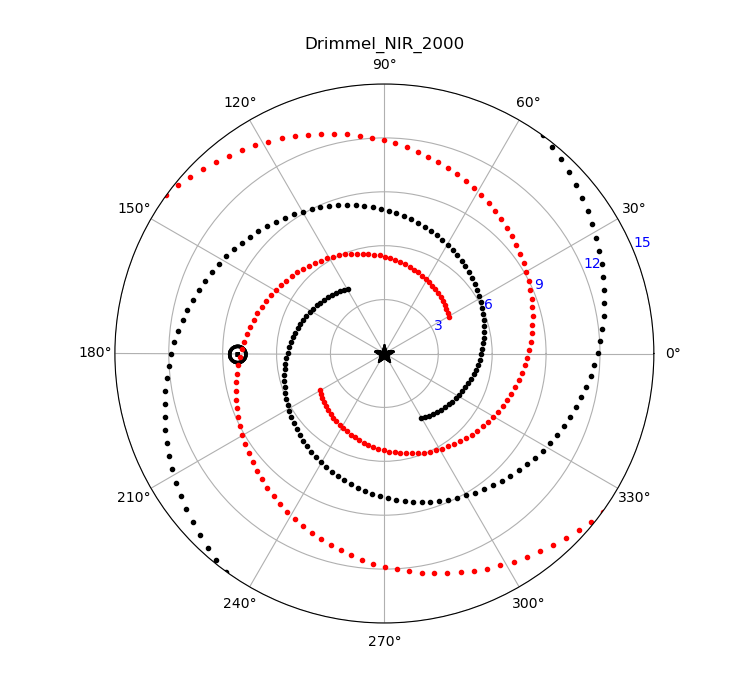
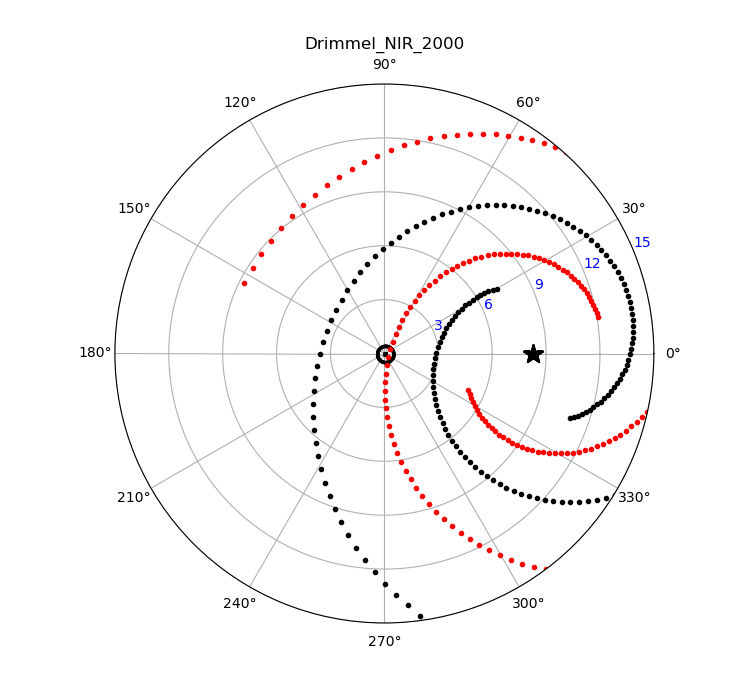
polarproj option simplified

diff --git a/test.py b/test.py
@@ -1,22 +1,15 @@
 
 
+from SpiralMap import *
+import SpiralMap as sp
+
 import imp,SpiralMap, dtools
 imp.reload(SpiralMap)
 imp.reload(dtools)
-# import SpiralMap as sp
-# import matplotlib.pyplot as plt
-# import numpy as np
-# import os
-# import putil
-# import imp,SpiralMap
-# imp.reload(SpiralMap)
-
-# import matplotlib.pyplot as plt
-# import numpy as np
-from SpiralMap import *
-import SpiralMap as sp
-# import os
 import putil
+
+
+
 
 figdir_primer = 'figdir_primer'
 os.system('rm -rf '+figdir_primer); os.system('mkdir '+figdir_primer)
@@ -336,8 +329,8 @@ if single_model:
 	print('plotting figures for primer')
 	xsun=-8.277
 	spirals = sp.main_(xsun=xsun)
-	use_model = 'Drimmel_ceph_2024'
-	use_arm = 'Orion'
+	use_model = 'Drimmel_NIR_2000'
+	use_arm = '2_arm'
 	spirals.getinfo(model=use_model)
 				
 	import matplotlib.gridspec as gridspec
@@ -348,17 +341,17 @@ if single_model:
 	fig.add_subplot(1,3,1)
 	plotattrs = {'plot':True,'coordsys':'HC','markersize':15,'markSunGC':True,'polargrid':True}
 	spirals.readout(plotattrs,model=use_model,arm=use_arm)
-	spirals.readout(plotattrs,model='Poggio_2021')
+	# spirals.readout(plotattrs,model='Poggio_2021')
 	
 	fig.add_subplot(1,3,2)
 	plotattrs = {'plot':True,'coordsys':'GC','markersize':15,'markSunGC':True,'polargrid':False}
 	spirals.readout(plotattrs,model=use_model,arm=use_arm)
-	spirals.readout(plotattrs,model='Poggio_2021')
+	# spirals.readout(plotattrs,model='Poggio_2021')
 
 	fig.add_subplot(1,3,3)
 	plotattrs = {'plot':True,'coordsys':'GC','markersize':15,'markSunGC':True,'polargrid':True}
 	spirals.readout(plotattrs,model=use_model,arm=use_arm)
-	spirals.readout(plotattrs,model='Poggio_2021')
+	# spirals.readout(plotattrs,model='Poggio_2021')
 	
 	fig.suptitle(use_model+'('+use_arm+')')
 	fig.tight_layout()
@@ -409,10 +402,8 @@ if checkpolar:
 				
 	plt.close('all')
 	fig, ax = plt.subplots(figsize=(7.5,7.),subplot_kw=dict(projection="polar"))
-	plotattrs = {'plot':True,'markersize':15,'polarproj':True}	
+	plotattrs = {'plot':True,'coordsys': 'HC','markersize':15,'polarproj':True}	
 	spirals.readout(plotattrs,model=use_model,arm='all')	
-	# spirals.readout(plotattrs,model='Taylor_Cordes_1992',arm='all')	
-	# spirals.readout(plotattrs,model='Levine_2006',arm='all')	
 
 	ax.set_rticks([3., 6.,9.,12,15.])
 	ax.set_thetagrids(list(np.arange(0.,360.,30)))
@@ -423,15 +414,13 @@ if checkpolar:
 	    label.set_size(fontsize=10)
 
 	plt.title(use_model)
-	# ax.set_xlim([np.radians(100),np.radians(260)])
 	ax.set_ylim([0.,15])
 
 	plt.savefig(figdir_primer+'/polar_grid_overplotted1_gc.png')
-	
-	
+		
 	plt.close('all')
 	fig, ax = plt.subplots(figsize=(7.5,7.),subplot_kw=dict(projection="polar"))
-	plotattrs = {'plot':True,'markersize':15,'polarproj_hc':True}	
+	plotattrs = {'plot':True,'coordsys': 'GC','markersize':15,'polarproj':True}	
 	spirals.readout(plotattrs,model=use_model,arm='all')	
 
 	ax.set_rticks([3., 6.,9.,12,15.])
@@ -448,11 +437,10 @@ if checkpolar:
 
 	plt.savefig(figdir_primer+'/polar_grid_overplotted1.png')
 
-	use_model = 'Drimmel_ceph_2024'
 	plt.close('all') 	
 	fig, ax = plt.subplots(figsize=(7.5,7.),subplot_kw=dict(projection="polar"))
-	plotattrs = {'plot':True,'markersize':15,'polarproj_hc':True}	
-	spirals.readout(plotattrs,model=use_model,arm='Sag-Car')	
+	plotattrs = {'plot':True,'coordsys': 'GC','markersize':15,'polarproj':True}	
+	spirals.readout(plotattrs,model=use_model,arm='2_arm')	
 
 	ax.set_rticks([3., 6.,9.,12,15.])
 	ax.set_thetagrids(list(np.arange(0.,360.,30)))
@@ -463,10 +451,27 @@ if checkpolar:
 	    label.set_size(fontsize=10)
 
 	plt.title(use_model)
-	# ax.set_xlim([np.radians(100),np.radians(260)])
 	ax.set_ylim([0.,15])
 
-	plt.savefig(figdir_primer+'/polar_grid_overplotted2.png')
+	plt.savefig(figdir_primer+'/polar_grid_overplotted2_gc.png')
+	
+	plt.close('all') 	
+	fig, ax = plt.subplots(figsize=(7.5,7.),subplot_kw=dict(projection="polar"))
+	plotattrs = {'plot':True,'coordsys': 'HC','markersize':15,'polarproj':True}	
+	spirals.readout(plotattrs,model=use_model,arm='2_arm')	
+
+	ax.set_rticks([3., 6.,9.,12,15.])
+	ax.set_thetagrids(list(np.arange(0.,360.,30)))
+	
+	rlabels = ax.get_ymajorticklabels()
+	for label in rlabels:
+	    label.set_color('blue')
+	    label.set_size(fontsize=10)
+
+	plt.title(use_model)
+	ax.set_ylim([0.,15])
+
+	plt.savefig(figdir_primer+'/polar_grid_overplotted2_hc.png')
 
 
 

diff --git a/SpiralMap.py b/SpiralMap.py
@@ -95,12 +95,11 @@ class spiral_poggio(object):
 			self.ymin,self.ymax =plt.gca().get_ylim()[0].copy(),plt.gca().get_ylim()[1].copy()		
 			# add_polargrid(plotattrs,xmin=xmin,xmax=xmax,ymin=ymin,ymax=ymax)					
 		
-		if plotattrs['polarproj']:
+		if plotattrs['polarproj'] and plotattrs['coordsys'].lower() == 'GC':
 			phi4_overdens = np.degrees(np.arctan2(yvalues_overdens,xvalues_overdens+xcorr))%360.							
 			cset1 = plt.contour(np.radians(phi4_overdens),Rgcvalues_dens,over_dens_grid,levels=levels_overdens,colors='black',linewidths=plotattrs['linewidth'])
 			self.xmin,self.xmax =plt.gca().get_xlim()[0].copy(),plt.gca().get_xlim()[1].copy()				
 			self.ymin,self.ymax =plt.gca().get_ylim()[0].copy(),plt.gca().get_ylim()[1].copy()	
-
 							
 class TaylorCordesSpiral(object):	
 	""" Taylor & Cordes (1993) Galactic spiral arm model,	  
@@ -1063,8 +1062,7 @@ class main_(object):
 								'xmax':'',
 								'ymin':'',
 								'ymax':'',
-								'polarproj':False,    
-								'polarproj_hc':False,    
+								'polarproj':False,       
 								'polargrid':False,    
 								'dataloc':dataloc}    
 	def add2plot(self,plotattrs):
@@ -1082,8 +1080,7 @@ class main_(object):
 	def xyplot(self,spimod,plotattrs_):		
 		
 		
-		if plotattrs_['plot'] and plotattrs_['polarproj']==False and plotattrs_['polarproj_hc']==False:	
-				
+		if plotattrs_['plot'] and plotattrs_['polarproj']==False :				
 			
 			plt.plot(spimod.dout['x'+plotattrs_['coordsys'].lower()],
 			         spimod.dout['y'+plotattrs_['coordsys'].lower()],
@@ -1150,8 +1147,8 @@ class main_(object):
 			self.dout = spimod.dout.copy() 													
 			if plotattrs1['armcolour'] == '':
 				plotattrs1['armcolour'] = spimod.armcolour[arm]		
-				self.xyplot(spimod,plotattrs1)
-				_polarproj(spimod,plotattrs1)														
+			self.xyplot(spimod,plotattrs1)
+			_polarproj(spimod,plotattrs1)														
 		if (('poggio' not in model.lower())&(arm=='all'))  :	
 													
 			for arm_temp in spimod.arms:			

diff --git a/dtools.py b/dtools.py
@@ -155,7 +155,7 @@ def add_polargrid(plotattrs,rlevels=12,xmin=-10,xmax=10,ymin=-10,ymax=10,modrec=
 
 def _polarproj(spimod,plotattrs):		
 
-	if plotattrs['plot'] and plotattrs['polarproj'] and plotattrs['polarproj_hc']==False:												
+	if plotattrs['plot'] and plotattrs['polarproj'] and plotattrs['coordsys'].lower()=='gc':												
 		plt.plot(0.,0.,marker='*',markersize=plotattrs['markersize'],color='black')		
 		plt.plot(np.radians(180.),abs(spimod.xsun),marker=r'$\odot$',markersize=plotattrs['markersize'],color='black')				
 		plt.plot(np.radians(spimod.dout['phi4']),spimod.dout['rgc'],'.',color=plotattrs['armcolour'])	
@@ -163,7 +163,7 @@ def _polarproj(spimod,plotattrs):
 			plt.plot(np.radians(spimod.dout['phi4_ex']),spimod.dout['rgc_ex'],'.',color=plotattrs['armcolour'])	
 		except KeyError:
 			pass
-	if plotattrs['plot'] and plotattrs['polarproj_hc']:
+	if plotattrs['plot'] and plotattrs['polarproj'] and plotattrs['coordsys'].lower()=='hc':
 		plt.plot(np.radians(0.),abs(spimod.xsun),marker='*',markersize=plotattrs['markersize'],color='black')
 		plt.plot(0.,0.,marker=r'$\odot$',markersize=plotattrs['markersize'],color='black')															
 		plt.plot(np.radians(spimod.dout['glon4']),spimod.dout['dhelio'],'.',color=plotattrs['armcolour'])	
